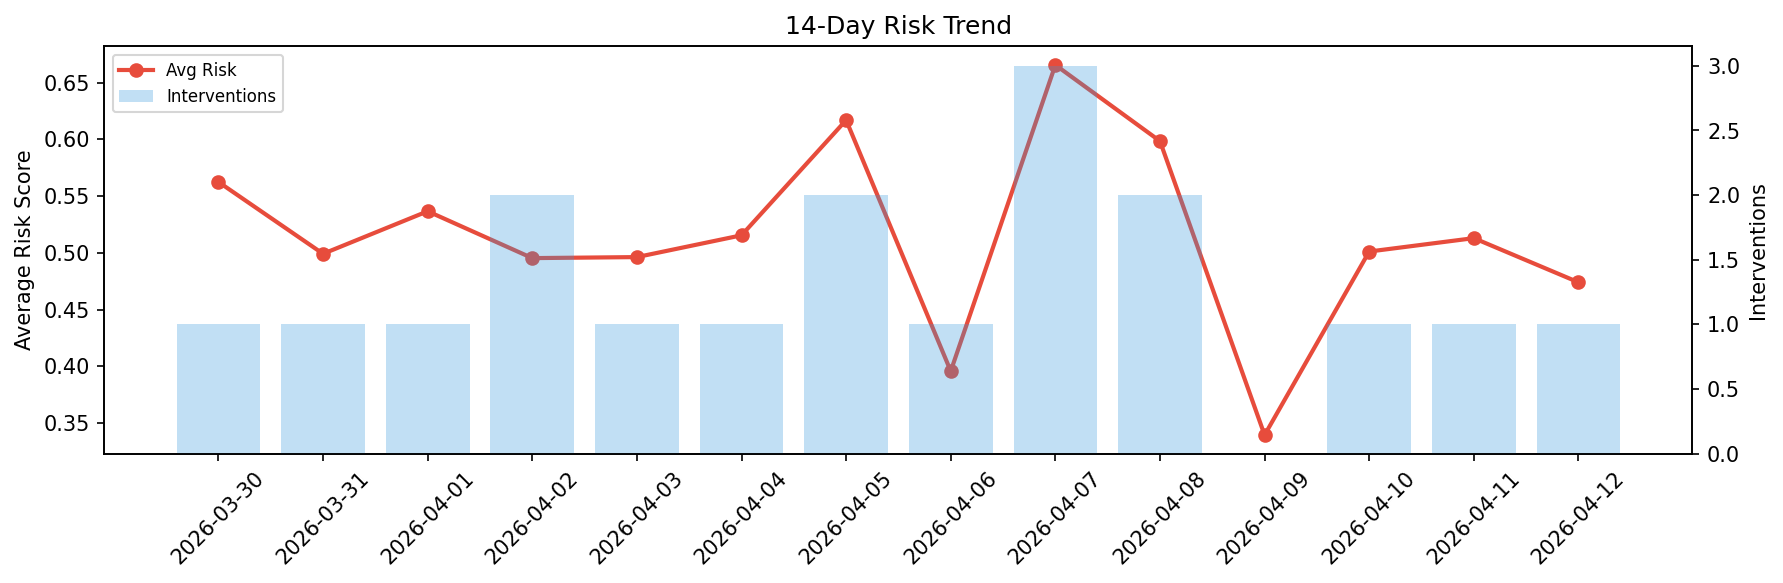
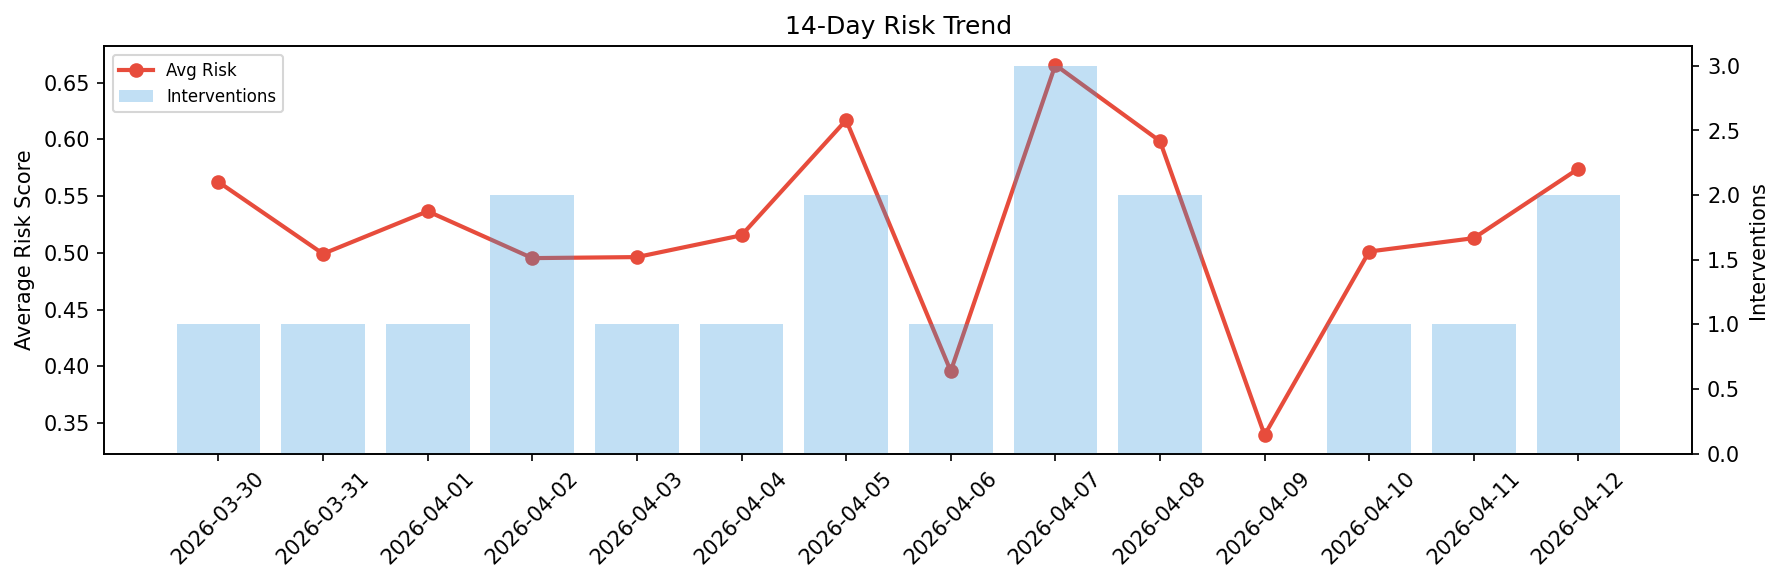
agent-improvement: daily cycle 2026-04-12T14:58

Changed region(s): [[0.8329, 0.2779, 0.9254, 0.5557]]

diff --git a/logs/2026-04-12.md b/logs/2026-04-12.md
@@ -1,6 +1,6 @@
 # Agent Improvement Report — 2026-04-12
 
-**Cycle ID:** `04dfd6d3` | **Avg Risk:** 0.474 | **Interventions:** 1/4
+**Cycle ID:** `22c97df8` | **Avg Risk:** 0.5741 | **Interventions:** 2/4
 
 ![Dashboard](2026-04-12_dashboard.png)
 
@@ -10,18 +10,18 @@
 
 | Domain | Risk Score | Decision | Alerts |
 |--------|-----------|----------|--------|
-| code_review | 0.3923 | monitor | none |
-| incident_response | 0.4161 | monitor | none |
-| data_pipeline | 0.3284 | monitor | none |
-| deployment | 0.7591 | intervene | rollback_rate, latency_p99 |
+| code_review | 0.4866 | monitor | none |
+| incident_response | 0.285 | monitor | none |
+| data_pipeline | 0.6812 | intervene | freshness, volume_anomaly |
+| deployment | 0.8436 | intervene | rollback_rate, canary_error |
 
 ## Delta vs Yesterday
 
 | Domain | Today | Yesterday | Change |
 |--------|-------|-----------|--------|
-| code_review | 0.3923 | 0.7976 | 📉 -50.8% |
-| incident_response | 0.4161 | 0.3569 | 📈 16.6% |
-| data_pipeline | 0.3284 | 0.3915 | 📉 -16.1% |
-| deployment | 0.7591 | 0.5055 | 📈 50.2% |
+| code_review | 0.4866 | 0.7976 | 📉 -39.0% |
+| incident_response | 0.285 | 0.3569 | 📉 -20.1% |
+| data_pipeline | 0.6812 | 0.3915 | 📈 74.0% |
+| deployment | 0.8436 | 0.5055 | 📈 66.9% |
 
 **Refinement:** `{'adjustment': 'tighten_thresholds', 'trend': 'degrading', 'window': 4}`
